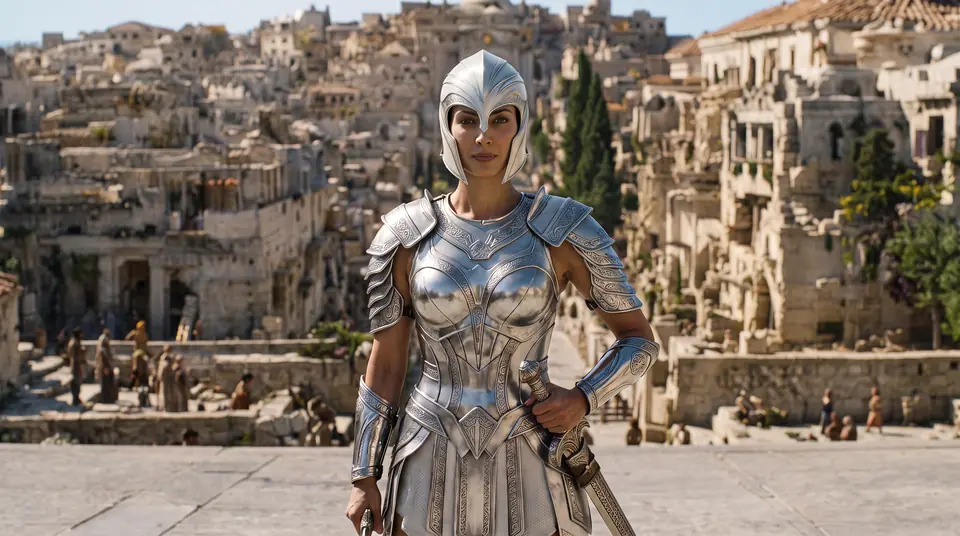
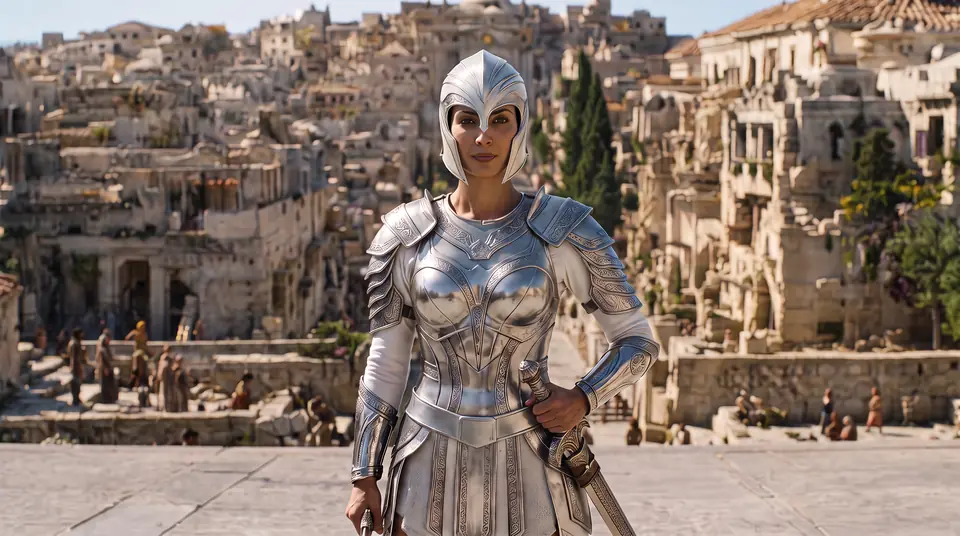
New Atlantis picture; one Aileah-in-armor stop
Replaces the Atlantis interior with the new view, and folds the two
armored Aileah stops into one with the new helmeted picture.

Claude-Session: https://claude.ai/code/session_01XKgtweyAvrcATcSE8h3gw1

diff --git a/story-data.js b/story-data.js
@@ -65,13 +65,9 @@ window.STORY = [
     text: "Chief Scientist of Atlantis. She has been searching for two very particular people for a very long time, with the patience of someone who has lived for thousands of years. Which she has.",
     alt: "Portrait of Aileah, a dark-haired woman with an ageless face and a knowing smile." },
 
-  { img: "aileah-armor", kicker: "Aileah", title: "The armor remembers her",
-    text: "When Atlantis is threatened, its Chief Scientist puts on armor that knows her touch and carries a blue-edged sword. The surface world remembers her by another name.",
-    alt: "Aileah in polished silver armor, standing in front of the stone city of Atlantis." },
-
-  { img: "aileah-helmet", kicker: "Aileah", title: "The helmet goes on last",
-    text: "There is a reason the old stories always gave Athena a helmet. Somebody saw her wearing one, and the world never forgot what happened.",
-    alt: "Aileah in full silver battle armor and helmet before the city." },
+  { img: "aileah-helmet", kicker: "Aileah", title: "The armor remembers her",
+    text: "When Atlantis is threatened, its Chief Scientist puts on armor that knows her touch and carries a blue-edged sword. There is a reason the old stories always gave Athena a helmet. Somebody saw her wearing one, and the world never forgot what happened.",
+    alt: "Aileah in polished silver armor and helmet, hand on her sword, standing on a terrace above the stone city of Atlantis." },
 
   { img: "raman", kicker: "Atlantis", title: "Raman Okido",
     text: "High Strategos, commander of everyone in Atlantis who carries a weapon. Five thousand years old, dry as the desert, and very hard to surprise. Surface world mythology called him Apollo, but they didn\u2019t know the other half of the story.",
@@ -126,8 +122,8 @@ window.STORY = [
     alt: "An immense glowing dome on the deep sea floor with a lit city inside and an aircraft descending toward it." },
 
   { img: "atlantis-city", kicker: "Inside the dome", title: "An old Mediterranean city",
-    text: "Narrow streets, old stone, flowers spilling from the balconies. It feels like a Greek island town that simply kept going. The sky looks clear and blue until you get close enough to see that it is water.",
-    alt: "A sprawling whitewashed city of narrow streets and old stone seen from a high landing platform." },
+    text: "Narrow streets, old stone and flowers spilling from the balconies, rising toward towers no surface architect has imagined. The sky looks clear and blue until you get close enough to see that it is water.",
+    alt: "Atlantis seen from a landing platform: old stone streets and domed glass halls among tall spiraling towers, with two sleek aircraft parked in the foreground." },
 
   { img: "pacifica", kicker: "The research vessel", title: "The Pacifica",
     text: "Two kilometers long, five hundred meters wide, and shaped for the deep water where it spends most of its life. The Pacifica has been at sea for about ten thousand years.",
